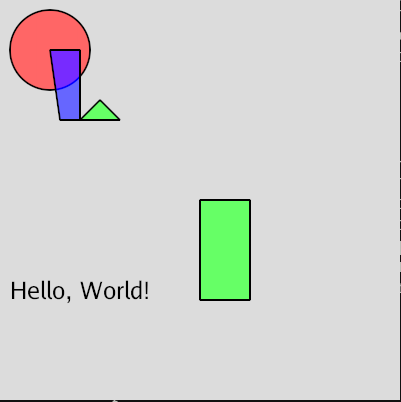
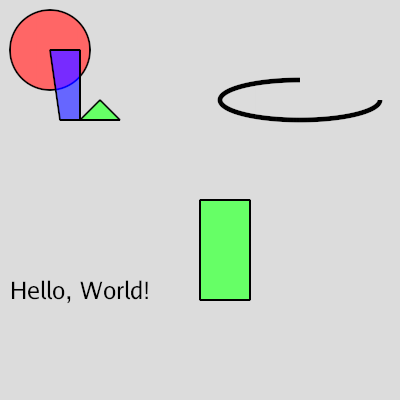
example/hello: update example with Arc

diff --git a/example/hello/main.go b/example/hello/main.go
@@ -6,6 +6,7 @@ package main
 
 import (
 	"image/color"
+	"math"
 
 	"github.com/go-p5/p5"
 )
@@ -20,6 +21,7 @@ func setup() {
 }
 
 func draw() {
+	p5.StrokeWidth(2)
 	p5.Fill(color.RGBA{R: 255, A: 208})
 	p5.Ellipse(50, 50, 80, 80)
 
@@ -34,4 +36,8 @@ func draw() {
 
 	p5.TextSize(24)
 	p5.Text("Hello, World!", 10, 300)
+
+	p5.Stroke(color.Black)
+	p5.StrokeWidth(5)
+	p5.Arc(300, 100, 80, 20, 0, 1.5*math.Pi)
 }
